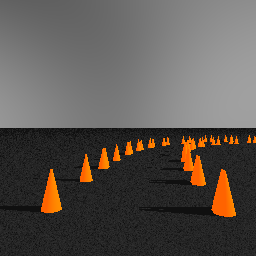
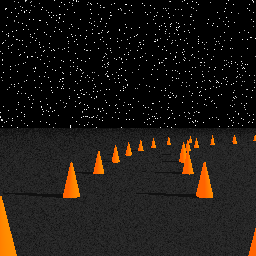
Added mike

diff --git a/konics/core/track.py b/konics/core/track.py
@@ -29,21 +29,23 @@ class Track:
     def add_to(self, world):
         left_cone = (0.0, 0.0)
         right_cone = (0.0, 0.0)
-        for t in np.linspace(0.0, self.e_t, num=2048):
+        for t in np.linspace(0.0, self.e_t, num=10000):
             x, y, a, dx, dy = self.get_full_pose(t)
             normal = np.cross(np.array([dx, dy, 0]), Z_HAT)
             dx, dy, _ = normal / np.linalg.norm(normal) * (VEHICLE_WIDTH / 2.0)
 
+            left = True
             if abs(x + dx - left_cone[0]) < CONE_DISTANCE:
                 if abs(y + dy - left_cone[1]) < CONE_DISTANCE:
-                    continue
-            if random() > P_MISSING_CONE:
+                    left = False
+            if left and random() > P_MISSING_CONE:
                 world.add_cone(x + dx, y + dy)
                 left_cone = (x + dx, y + dy)
 
+            right = True
             if abs(x - dx - right_cone[0]) < CONE_DISTANCE:
                 if abs(y - dy - right_cone[1]) < CONE_DISTANCE:
-                    continue
-            if random() > P_MISSING_CONE:
+                    right = False
+            if right and random() > P_MISSING_CONE:
                 world.add_cone(x - dx, y - dy)
                 right_cone = (x - dx, y - dy)

diff --git a/konics/maps/mike.py b/konics/maps/mike.py
@@ -1,0 +1,29 @@
+from math import sin, cos
+
+e_t = 60.0
+BREAKPOINT_1 = 10.0
+BREAKPOINT_2 = 15.0
+BREAKPOINT_3 = 30.0
+BREAKPOINT_4 = 35.0
+
+def x_t(t):
+    if t > BREAKPOINT_4:
+        return x_t(BREAKPOINT_4) + (t - BREAKPOINT_4) * 10.0
+    if t > BREAKPOINT_3:
+        return x_t(BREAKPOINT_3) - sin((t - BREAKPOINT_3) / 1.5) * 30.0
+    if t > BREAKPOINT_2:
+        return x_t(BREAKPOINT_2) - (t - BREAKPOINT_2) * 10.0
+    if t > BREAKPOINT_1:
+        return x_t(BREAKPOINT_1) + sin((t - BREAKPOINT_1) / 1.5) * 30.0
+    return t * 10.0
+
+def y_t(t):
+    if t > BREAKPOINT_4:
+        return y_t(BREAKPOINT_4)
+    if t > BREAKPOINT_3:
+        return y_t(BREAKPOINT_3) + cos((t - BREAKPOINT_3) / 1.5) * 15.0 - 15.0
+    if t > BREAKPOINT_2:
+        return y_t(BREAKPOINT_2)
+    if t > BREAKPOINT_1:
+        return y_t(BREAKPOINT_1) + cos((t - BREAKPOINT_1) / 1.5) * 15.0 - 15.0
+    return 0.0

diff --git a/konics/utils/__init__.py b/konics/utils/__init__.py
@@ -18,7 +18,7 @@ def make_preview(track, world=None, title=None):
     canvas = FigureCanvas(fig)
     ax = fig.gca()
 
-    ts = np.linspace(0.0, track.e_t, num=1000)
+    ts = np.linspace(0.0, track.e_t, num=10000)
     x = [track.x_t(t) for t in ts]
     y = [track.y_t(t) for t in ts]
     ax.plot(x, y)

diff --git a/konics/maps/echo.py b/konics/maps/echo.py
@@ -1,5 +1,5 @@
 from math import sin, cos
 
-e_t = 5.0
+e_t = 2.0
 def x_t(t): return sin(t*2.0*3.1415) * 100 * t
 def y_t(t): return cos(t*2.0*3.1415) * 100 * t
